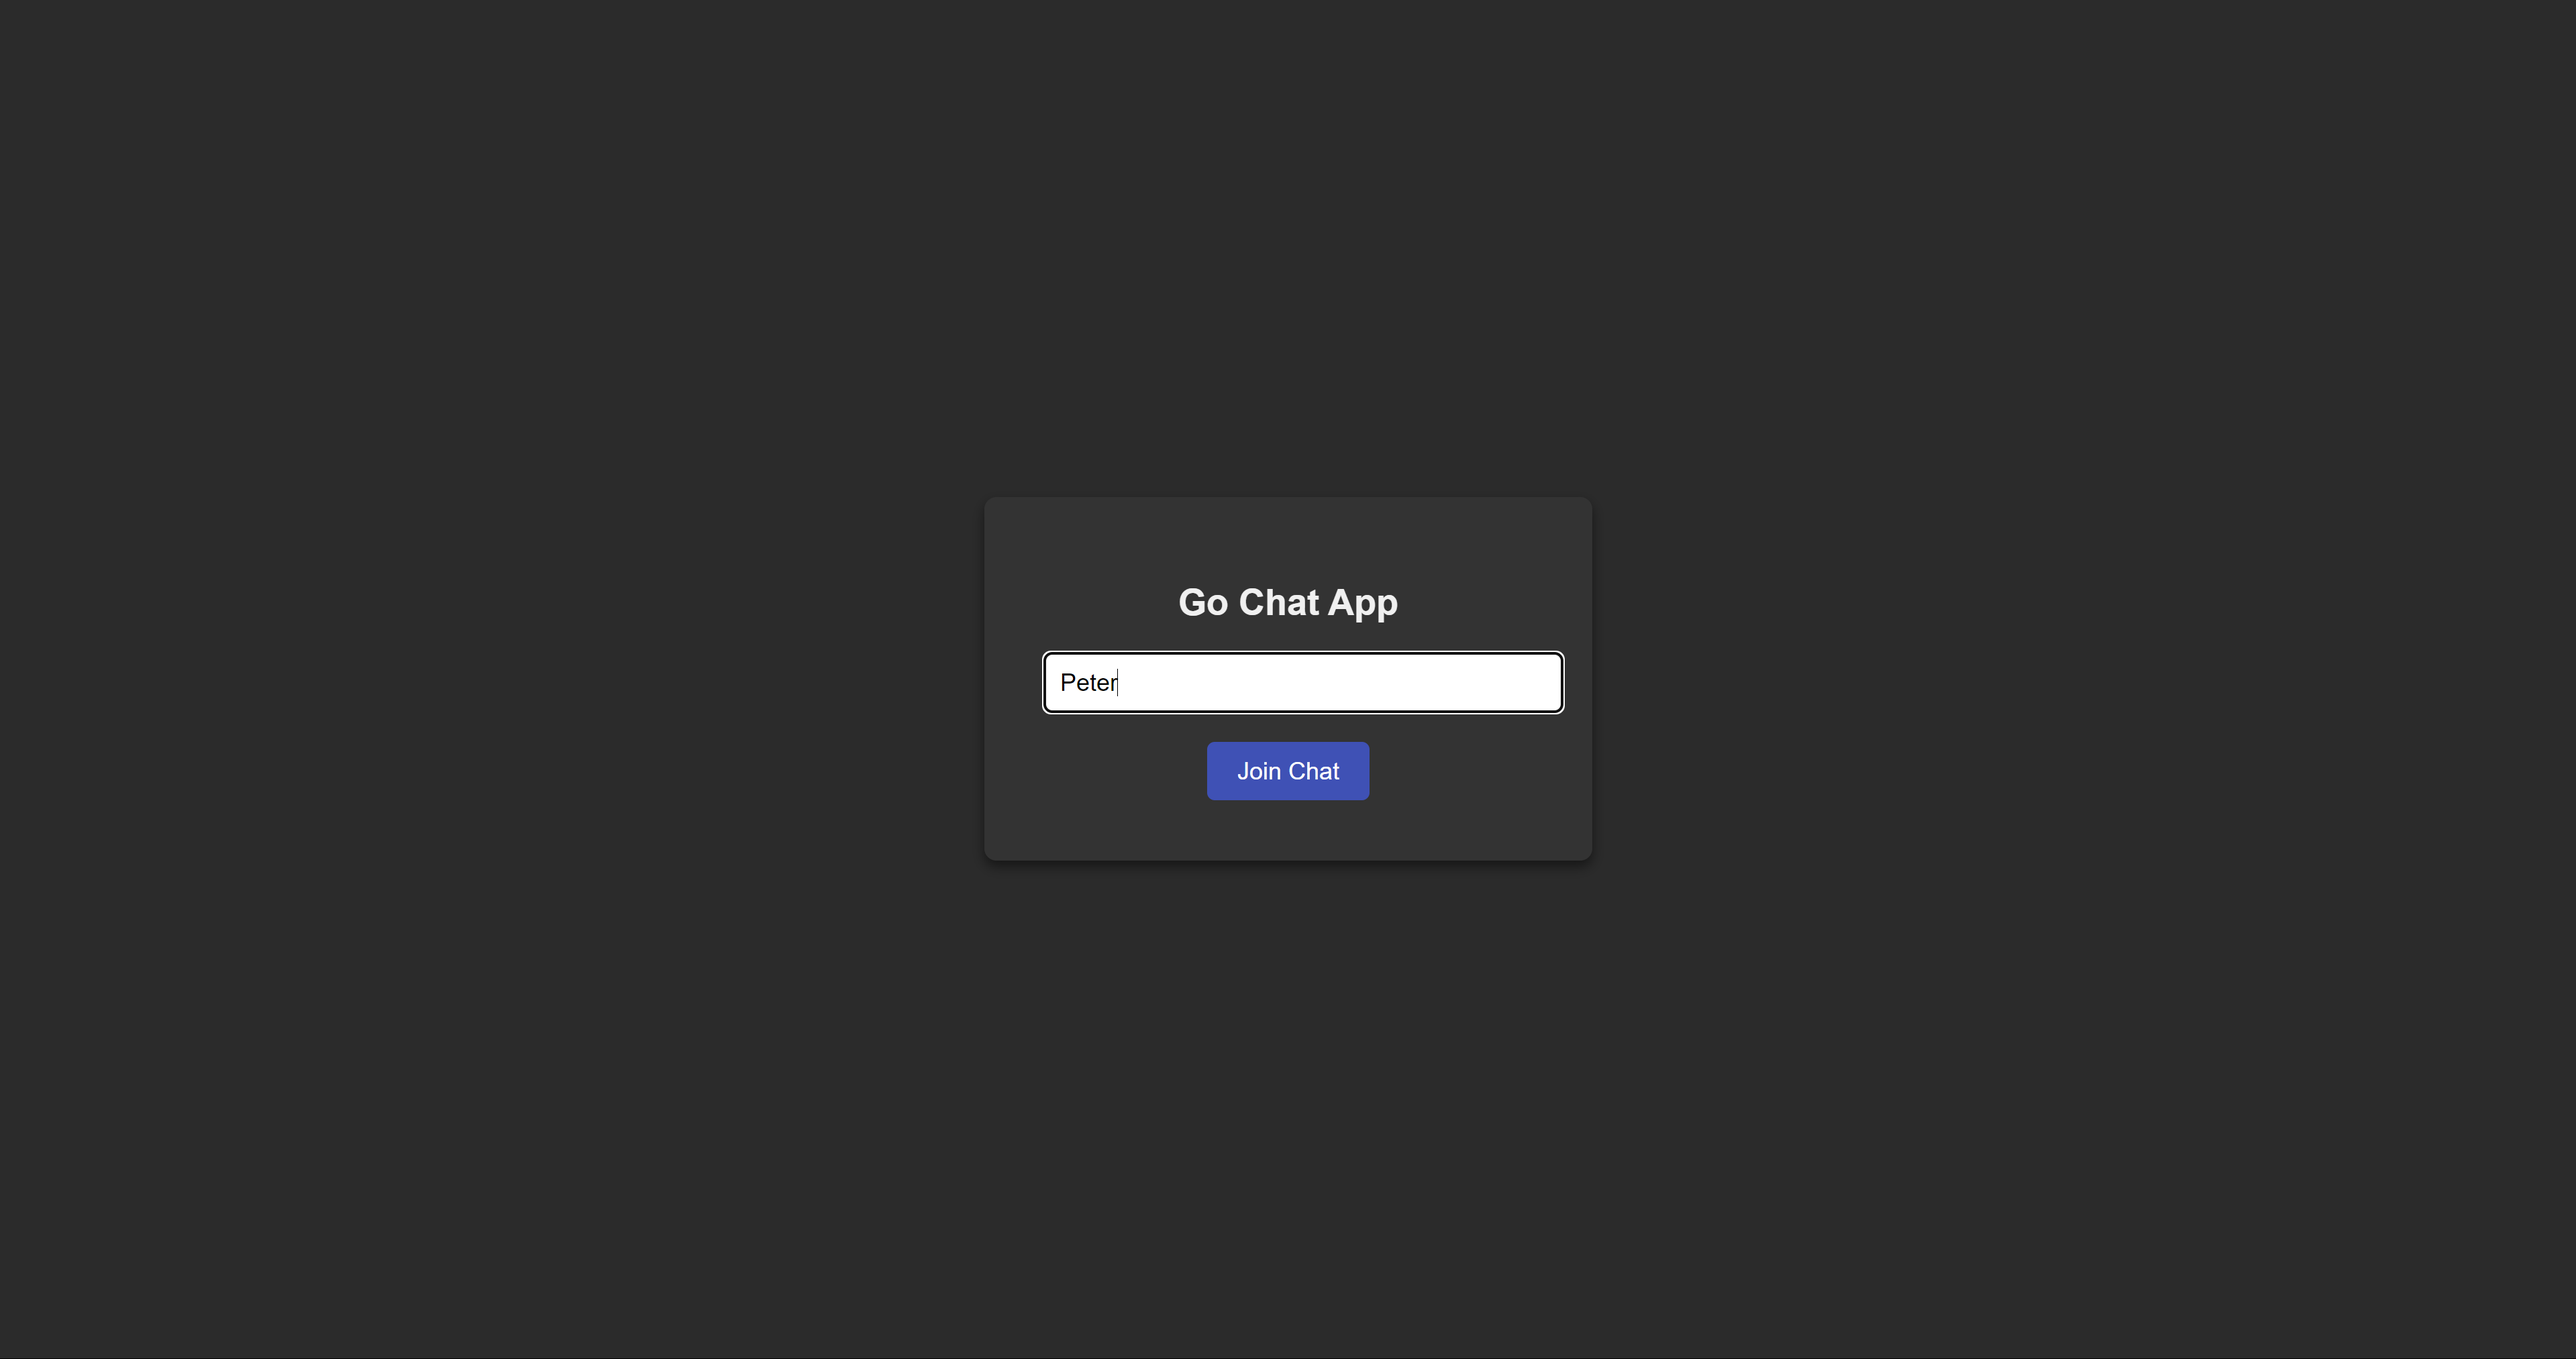
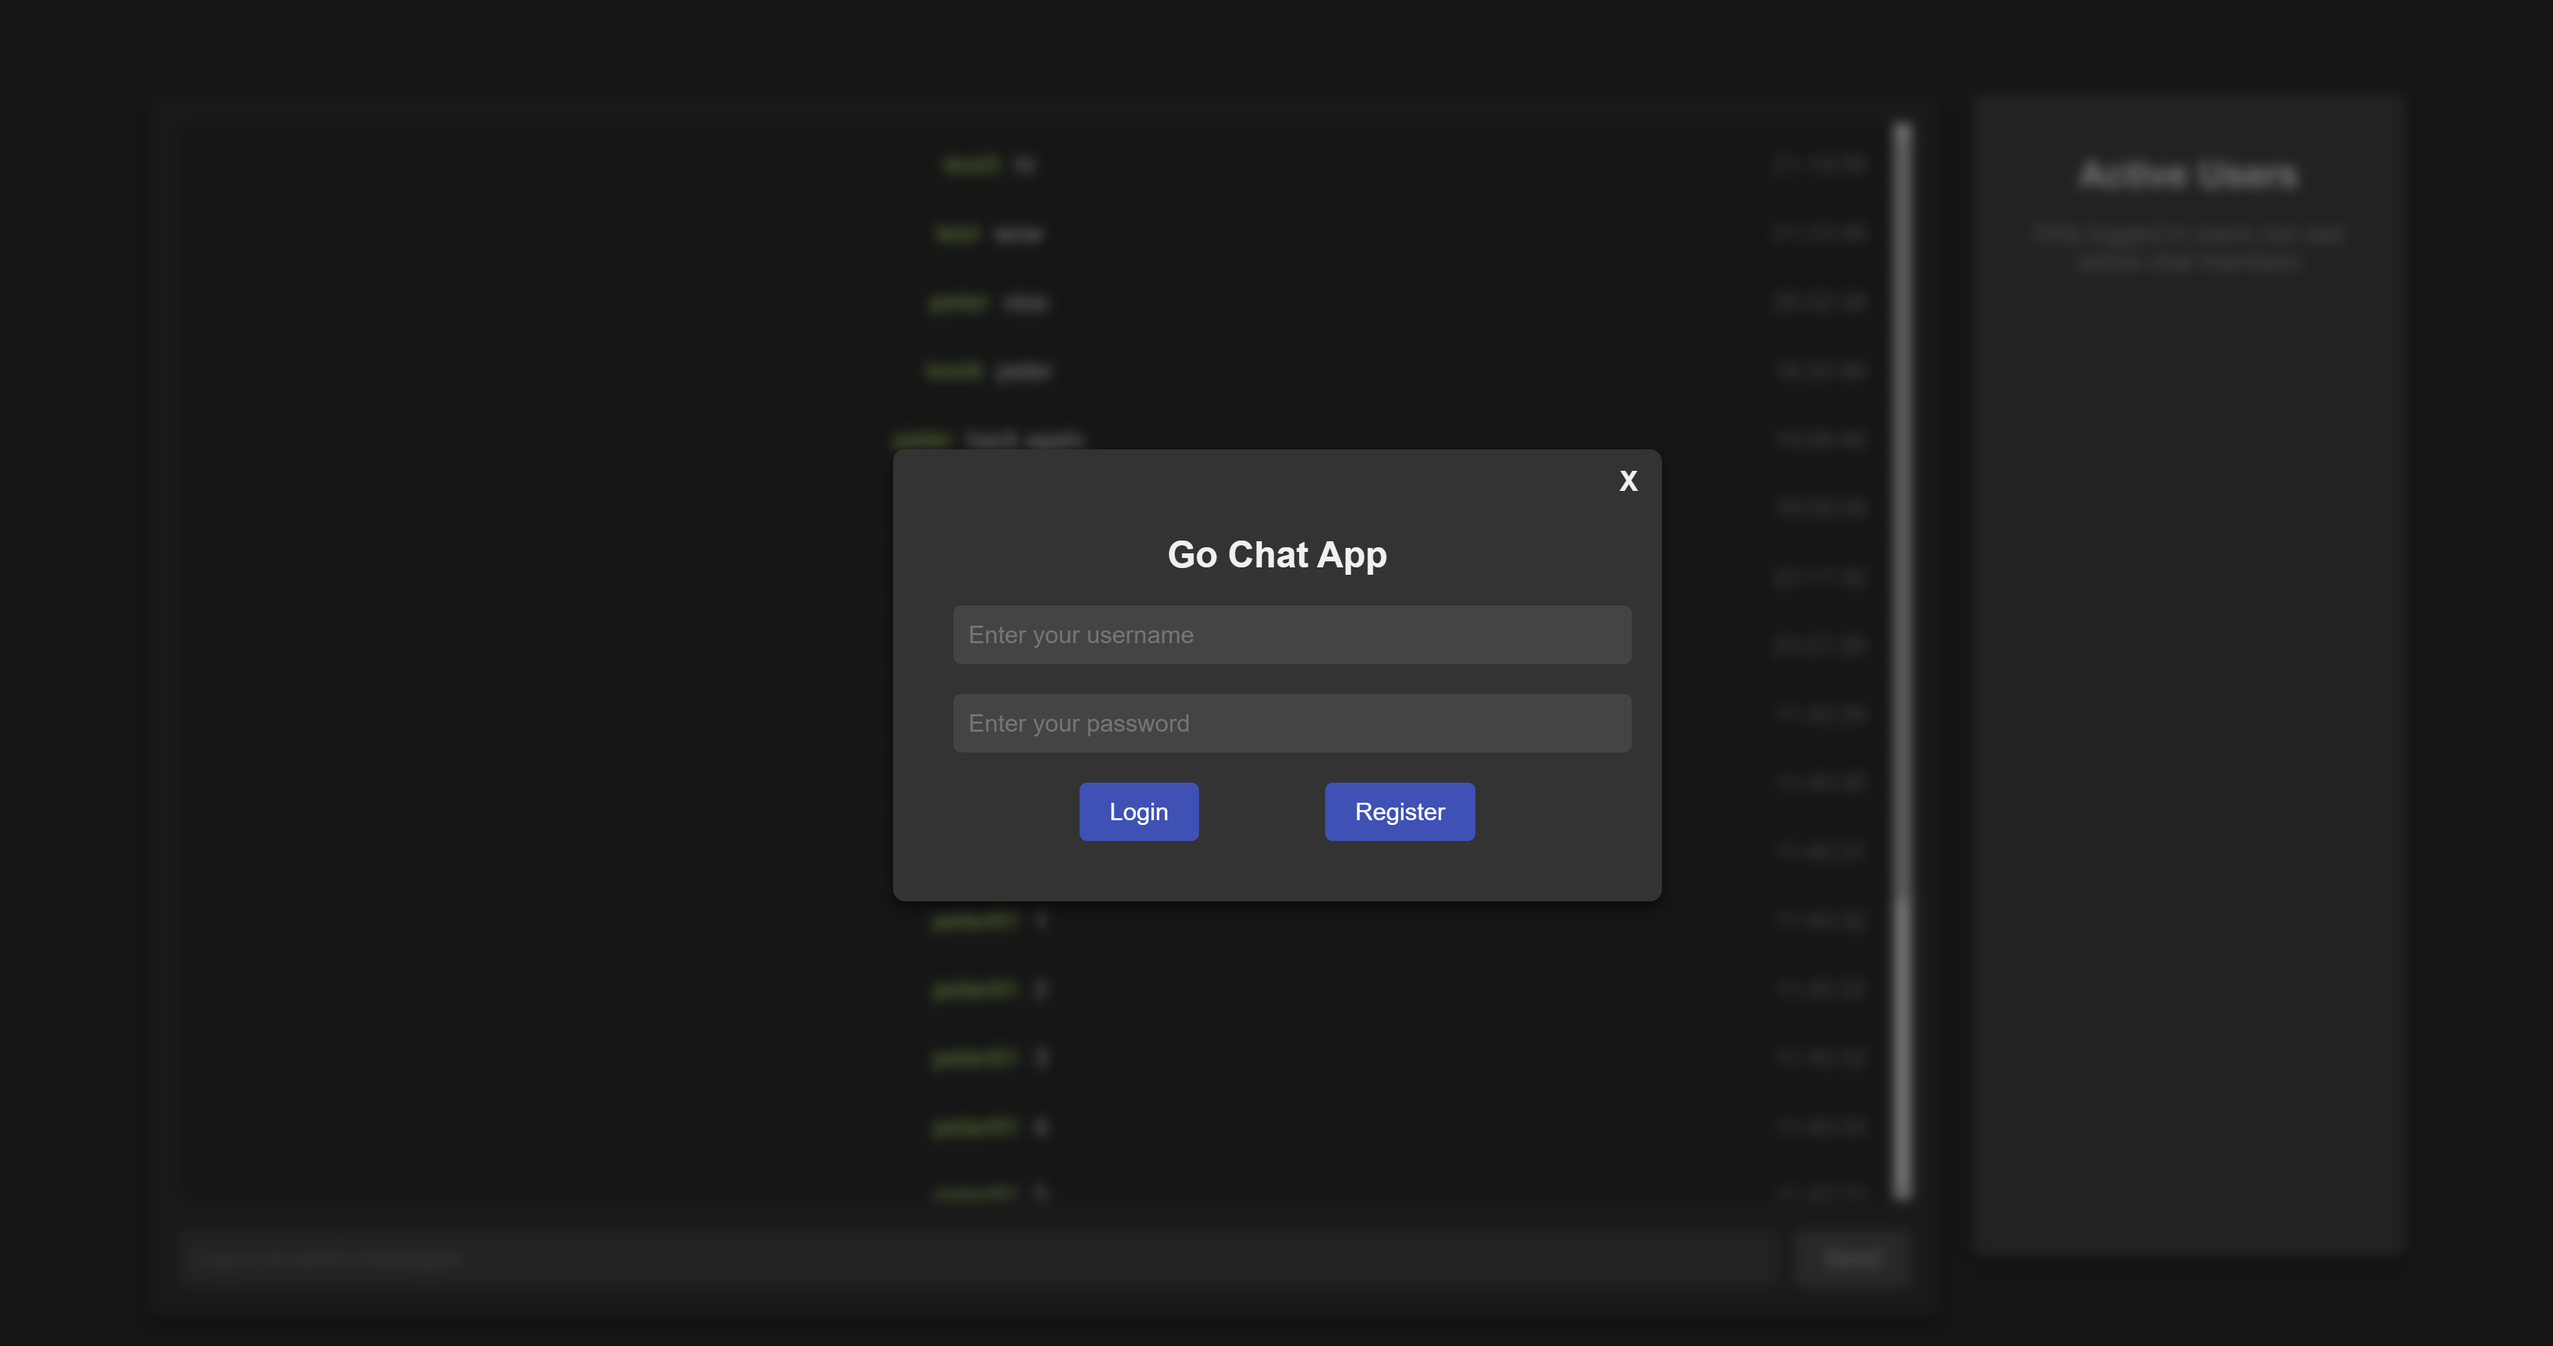
Refactored Login UI

diff --git a/frontend/src/App.tsx b/frontend/src/App.tsx
@@ -20,6 +20,8 @@ const App: React.FC = () => {
   const [connected, setConnected] = useState<boolean>(false);
   const [messages, setMessages] = useState<Message[]>([]);
   const [activeUsers, setActiveUsers] = useState<string[]>([]);
+  const [showLoginPopup, setShowLoginPopup] = useState<boolean>(true);
+
   const ws = useRef<WebSocket | null>(null);
   const ipAddress = window.location.hostname;
 
@@ -82,7 +84,6 @@ const App: React.FC = () => {
       });
 
       if (response.ok) {
-        alert("Login successful!");
         const tokenSet = await setCSRFTokenFromCookies();
         if (tokenSet) {
           const csrfCookie = document.cookie
@@ -90,6 +91,7 @@ const App: React.FC = () => {
             .find((row) => row.startsWith("csrf_token="));
           const token = csrfCookie ? csrfCookie.split("=")[1] : "";
           connectToWebSocket(token);
+          setShowLoginPopup(false);
         } else {
           alert(
             "CSRF token could not be retrieved. WebSocket connection aborted."
@@ -166,6 +168,11 @@ const App: React.FC = () => {
   };
 
   const sendMessage = (message: string) => {
+    if (!connected) {
+      // If not connected, do nothing (or show a warning)
+      alert("You must be logged in to send messages.");
+      return;
+    }
     if (ws.current && ws.current.readyState === WebSocket.OPEN) {
       const formattedMessage = JSON.stringify({
         sender: username,
@@ -176,39 +183,26 @@ const App: React.FC = () => {
     }
   };
 
+  const handleLoginSubmit = (e: React.FormEvent<HTMLFormElement>) => {
+    e.preventDefault();
+    handleLogin();
+  };
+
   return (
     <div className="App">
-      {!connected ? (
-        <div className="join-container">
-          <h1 className="title">Go Chat App</h1>
-          <input
-            type="text"
-            placeholder="Enter your username"
-            value={username}
-            onChange={(e) => setUsername(e.target.value)}
-            className="input"
-          />
-          <input
-            type="password"
-            placeholder="Enter your password"
-            value={password}
-            onChange={(e) => setPassword(e.target.value)}
-            className="input"
-          />
-          <div className="button-container">
-            <button className="button" onClick={handleLogin}>
-              Login
-            </button>
-            <button className="button" onClick={handleRegister}>
-              Register
-            </button>
-          </div>
-        </div>
-      ) : (
-        <div className="chat-layout">
-          <Chat messages={messages} sendMessage={sendMessage} />
-          <div className="user-list">
-            <h2>Active Users</h2>
+      <div className="chat-layout">
+        <Chat
+          messages={messages}
+          sendMessage={sendMessage}
+          canSend={connected}
+        />
+        <div className="user-list">
+          <h2>Active Users</h2>
+          {!connected ? (
+            <p className="greyed-out">
+              Only logged in users can see active chat members
+            </p>
+          ) : (
             <ul>
               {activeUsers.map((user, index) => (
                 <li key={index}>
@@ -217,6 +211,49 @@ const App: React.FC = () => {
                 </li>
               ))}
             </ul>
+          )}
+        </div>
+      </div>
+
+      {/* Login Popup Overlay */}
+      {!connected && showLoginPopup && (
+        <div className="login-overlay">
+          <div className="login-popup">
+            <button
+              className="close-button"
+              onClick={() => setShowLoginPopup(false)}
+            >
+              X
+            </button>
+            <h1 className="title">Go Chat App</h1>
+            <form onSubmit={handleLoginSubmit}>
+              <input
+                type="text"
+                placeholder="Enter your username"
+                value={username}
+                onChange={(e) => setUsername(e.target.value)}
+                className="input"
+              />
+              <input
+                type="password"
+                placeholder="Enter your password"
+                value={password}
+                onChange={(e) => setPassword(e.target.value)}
+                className="input"
+              />
+              <div className="button-container">
+                <button type="submit" className="button">
+                  Login
+                </button>
+                <button
+                  type="button"
+                  className="button"
+                  onClick={handleRegister}
+                >
+                  Register
+                </button>
+              </div>
+            </form>
           </div>
         </div>
       )}

diff --git a/frontend/src/App.css b/frontend/src/App.css
@@ -7,52 +7,21 @@ body {
   justify-content: center;
   align-items: center;
   height: 100vh;
+  overflow: hidden;
 }
 
 .App {
   text-align: center;
-}
-
-.join-container {
-  background-color: #333;
-  padding: 40px;
-  border-radius: 8px;
-  box-shadow: 0px 4px 8px rgba(0, 0, 0, 0.5);
-}
-
-.title {
-  font-size: 24px;
-  margin-bottom: 20px;
-  color: #f0f0f0;
-}
-
-.input {
-  padding: 10px;
-  margin-bottom: 20px;
-  border: none;
-  border-radius: 5px;
-  font-size: 16px;
-  width: 100%;
-}
-
-.button {
-  padding: 10px 20px;
-  background-color: #3f51b5;
-  color: white;
-  border: none;
-  border-radius: 5px;
-  font-size: 16px;
-  cursor: pointer;
-}
-
-.button:hover {
-  background-color: #303f9f;
+  width: 90vw;
+  height: 90vh;
 }
 
 .chat-layout {
   display: flex;
-  width: 80vw;
-  height: 80vh;
+  width: 90vw;
+  height: 90vh;
+  padding: 20px;
+  box-sizing: border-box;
 }
 
 .user-list {
@@ -62,6 +31,7 @@ body {
   border-radius: 8px;
   box-shadow: 0px 4px 8px rgba(0, 0, 0, 0.5);
   margin-left: 20px;
+  box-sizing: border-box;
 }
 
 .user-list h2 {
@@ -93,4 +63,82 @@ body {
 
 .user-dot.offline {
   background-color: #f44336;
+}
+
+/* Login popup overlay */
+.login-overlay {
+  position: fixed;
+  top: 0;
+  left: 0;
+  width: 100%;
+  height: 100%;
+  backdrop-filter: blur(4px) brightness(0.5);
+  display: flex;
+  justify-content: center;
+  align-items: center;
+  z-index: 999;
+}
+
+.login-popup {
+  background-color: #333;
+  padding: 40px;
+  border-radius: 8px;
+  box-shadow: 0px 4px 8px rgba(0, 0, 0, 0.5);
+  position: relative;
+}
+
+.login-popup .title {
+  font-size: 24px;
+  margin-bottom: 20px;
+  color: #f0f0f0;
+}
+
+.login-popup .input {
+  padding: 10px;
+  margin-bottom: 20px;
+  border: none;
+  border-radius: 5px;
+  font-size: 16px;
+  width: 100%;
+  background-color: #444;
+  color: #fff;
+}
+
+.login-popup .button-container {
+  display: flex;
+  justify-content: space-evenly;
+}
+
+.login-popup .button {
+  padding: 10px 20px;
+  background-color: #3f51b5;
+  color: white;
+  border: none;
+  border-radius: 5px;
+  font-size: 16px;
+  cursor: pointer;
+}
+
+.login-popup .button:hover {
+  background-color: #303f9f;
+}
+
+.close-button {
+  position: absolute;
+  top: 10px;
+  right: 10px;
+  background: transparent;
+  color: #f0f0f0;
+  font-weight: bold;
+  border: none;
+  font-size: 18px;
+  cursor: pointer;
+}
+
+.close-button:hover {
+  color: #ccc;
+}
+
+.greyed-out {
+  color: #999;
 }

diff --git a/frontend/src/Chat.tsx b/frontend/src/Chat.tsx
@@ -10,14 +10,15 @@ type Message = {
 type ChatProps = {
   messages: Message[];
   sendMessage: (message: string) => void;
+  canSend: boolean;
 };
 
-const Chat: React.FC<ChatProps> = ({ messages, sendMessage }) => {
+const Chat: React.FC<ChatProps> = ({ messages, sendMessage, canSend }) => {
   const [message, setMessage] = useState<string>("");
 
   const handleSubmit = (e: React.FormEvent) => {
     e.preventDefault();
-    if (message.trim() !== "") {
+    if (message.trim() !== "" && canSend) {
       sendMessage(message);
       setMessage("");
     }
@@ -26,7 +27,7 @@ const Chat: React.FC<ChatProps> = ({ messages, sendMessage }) => {
   return (
     <div className="chat-container">
       <div className="chatbox">
-        {messages.length === 0 ? ( // Check if messages array is empty
+        {messages.length === 0 ? (
           <div className="no-messages">
             No messages yet. Start the conversation!
           </div>
@@ -45,12 +46,16 @@ const Chat: React.FC<ChatProps> = ({ messages, sendMessage }) => {
       <form className="message-form" onSubmit={handleSubmit}>
         <input
           type="text"
-          placeholder="Type a message..."
+          placeholder={
+            canSend ? "Type a message..." : "Log in to send messages"
+          }
           value={message}
           onChange={(e) => setMessage(e.target.value)}
           className="message-input"
+          disabled={!canSend}
+          title={!canSend ? "Log in to send messages" : ""}
         />
-        <button type="submit" className="message-button">
+        <button type="submit" className="message-button" disabled={!canSend}>
           Send
         </button>
       </form>

diff --git a/frontend/src/Chat.css b/frontend/src/Chat.css
@@ -70,6 +70,12 @@
   background-color: #303f9f;
 }
 
+.message-button:disabled {
+  background-color: #666;
+  cursor: not-allowed;
+  opacity: 0.6;
+}
+
 .no-messages {
   text-align: center;
   color: #999;
